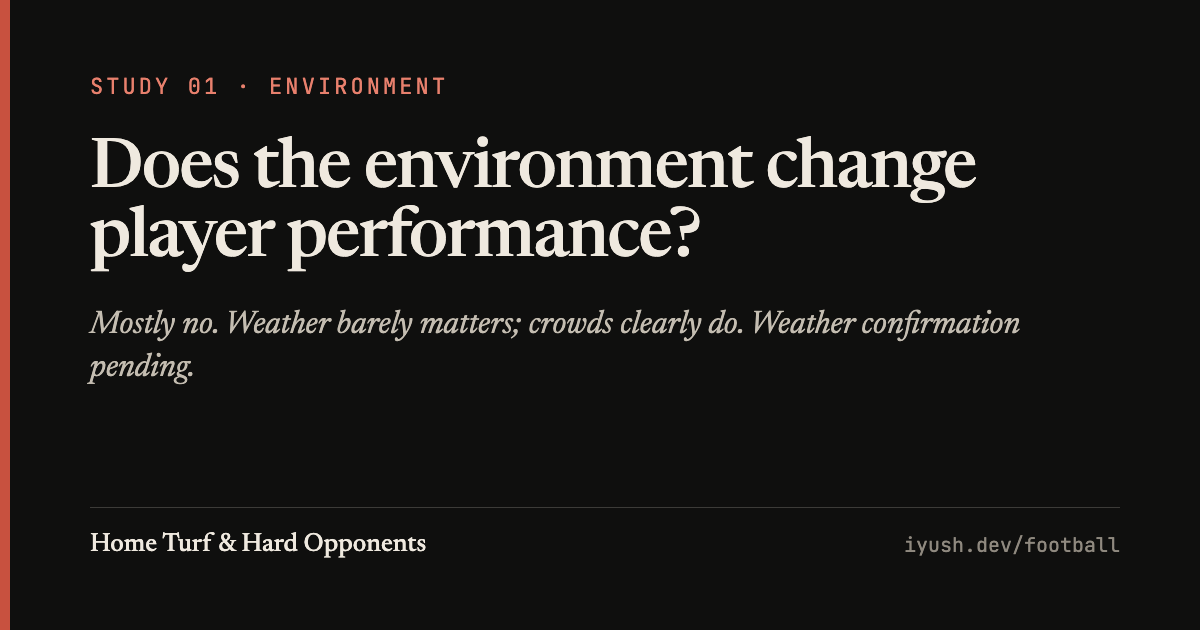
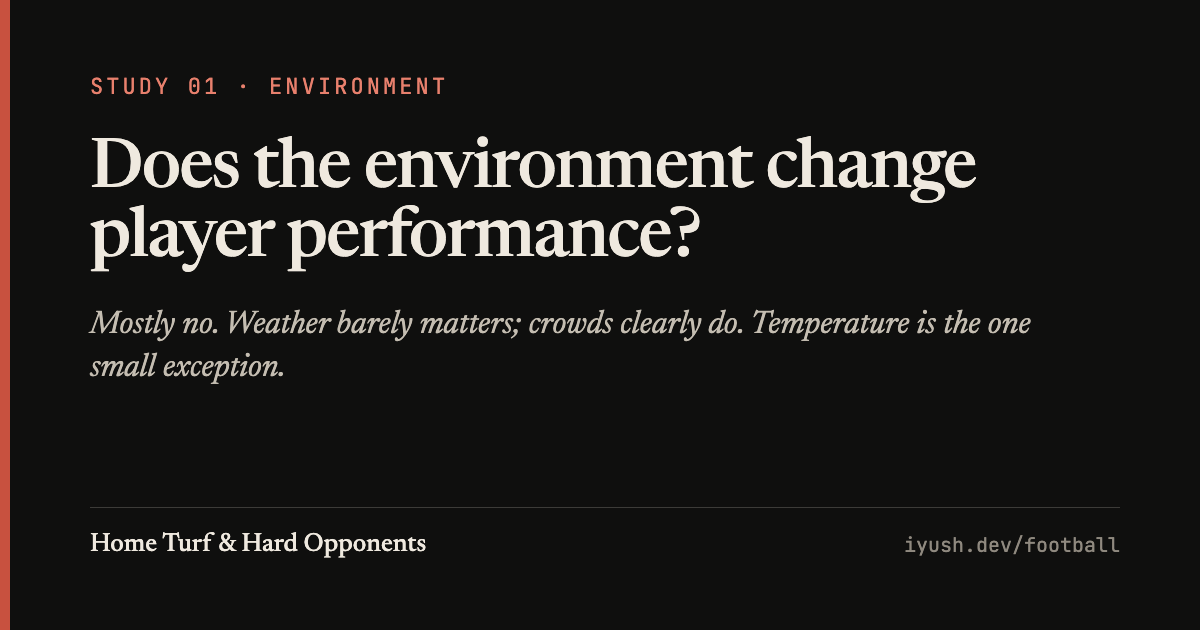
football: Study 1 temperature placebo (M12) done — survives; conclusion and freeze still pending
Study 1 page, research index, methodology, live board/questions/log and the
Environment OG card now reflect M12 (1,000-permutation placebo, 12 of 30 cells
survive; strongest in Serie A, none in EPL/Bundesliga).

Changed region(s): [[0.6167, 0.4825, 0.8633, 0.5429], [0.0617, 0.5429, 0.2467, 0.6032]]

diff --git a/football/research/environment.html b/football/research/environment.html
@@ -84,7 +84,7 @@
     </div>
     <div class="s-hero__side">
       <div class="callout" data-reveal><p class="label">Finding</p><p>Weather barely changes how much players produce: with all five leagues, rain and humidity effects sit within about ±2%, and wind is small (about −1% per +10 km/h). Crowds clearly do: empty stadiums roughly halved home advantage, and it came back with the fans.</p></div>
-      <aside class="status-box" aria-label="Study status"><p class="label">Status · Weather freeze pending</p><ul><li><span class="pill pill--final">Final</span><span>Crowds</span></li><li><span class="pill pill--final">Done</span><span>Weather · five-league models (6 Oct 2026)</span></li><li><span class="pill pill--pending">Pending</span><span>Final temperature check (1,000-permutation placebo)</span></li><li><span class="pill pill--pending">Pending</span><span>Hand-written weather conclusion and freeze</span></li><li><span class="pill pill--pending">Open lead — not a finding</span><span>Temperature</span></li></ul><p>The five-league weather models finished on 6 October 2026. A final temperature placebo check, the hand-written weather conclusion and the freeze are still to come, so the weather answer on this page is provisional. The crowd results are final.</p></aside>
+      <aside class="status-box" aria-label="Study status"><p class="label">Status · Weather freeze pending</p><ul><li><span class="pill pill--final">Final</span><span>Crowds</span></li><li><span class="pill pill--final">Done</span><span>Weather · five-league models (6 Oct 2026)</span></li><li><span class="pill pill--final">Done</span><span>Final temperature check (1,000-permutation placebo · 6 Oct 2026)</span></li><li><span class="pill pill--pending">Pending</span><span>Hand-written weather conclusion and freeze</span></li><li><span class="pill pill--pending">Survives the placebo check · conclusion pending</span><span>Temperature</span></li></ul><p>The five-league weather models and the final 1,000-permutation temperature placebo check finished on 6 October 2026. The hand-written weather conclusion and the freeze are still to come, so the weather answer on this page is provisional. The crowd results are final.</p></aside>
     </div>
   </div>
 </header>
@@ -121,7 +121,7 @@
   <p class="chart__summary">Every attacking ratio moved toward 1.00 without fans, and the home side's lighter treatment in yellow cards disappeared.</p>
   <p class="source">Study 01 · Final Summary §3</p>
 </figure></div></article>
-<div class="fgroup"><h3>Weather</h3><span class="pill pill--pending">Five-league models done · conclusion and freeze pending</span></div>
+<div class="fgroup"><h3>Weather</h3><span class="pill pill--pending">Models and placebo check done · conclusion and freeze pending</span></div>
 <article class="find find--head"><h3 class="find__big">Weather barely changes how much players produce.</h3><p class="lead lead--big">With all five leagues, rain and humidity effects on shots, xG, xA, goals and key passes sit within about <strong>±2%</strong>. Wind is small but now detectable: about <strong>−1%</strong> shots, key passes and xA per +10 km/h. Over ten Premier League seasons alone, <strong>0 of 20</strong> weather × metric effects survived correction.</p><figure class="chart fig" data-reveal>
   <figcaption><p class="chart__title">Weather, next to the crowd</p><p class="chart__sub">Change in output. The shaded band is the range the five-league rain and humidity estimates sit in.</p></figcaption>
   <div class="chart__plot" role="img" aria-label="Rain, humidity: ±2%; Wind +10 km/h (xA): −1.2%; Home edge, behind closed doors: +13%; Home edge, with fans: +30%"><div class="hchart" style="--vw:4.2em"><div class="hbar"><div class="hbar__row"><span class="hbar__lbl">Rain, humidity</span><span class="track"><span class="zero" style="left:12.50%"></span><span class="band" style="left:7.50%;width:calc(17.50% - 7.50%)"></span></span><span class="hbar__v">±2%</span></div><div class="hbar__row"><span class="hbar__lbl">Wind +10 km/h (xA)</span><span class="track"><span class="zero" style="left:12.50%"></span><span class="bar grow-x" style="left:9.50%;width:calc(12.50% - 9.50%);transform-origin:right"></span></span><span class="hbar__v">−1.2%</span></div><div class="hbar__row"><span class="hbar__lbl">Home edge, behind closed doors</span><span class="track"><span class="zero" style="left:12.50%"></span><span class="bar grow-x" style="left:12.50%;width:calc(45.00% - 12.50%);transform-origin:left"></span></span><span class="hbar__v">+13%</span></div><div class="hbar__row"><span class="hbar__lbl">Home edge, with fans</span><span class="track"><span class="zero" style="left:12.50%"></span><span class="bar grow-x bar--hot" style="left:12.50%;width:calc(87.50% - 12.50%);transform-origin:left"></span></span><span class="hbar__v hbar__v--hot">+30%</span></div></div><div class="hbar__axis" aria-hidden="true"><span></span><div class="ticks"><span style="left:0.00%">−5%</span><span style="left:12.50%">0%</span><span style="left:37.50%">+10%</span><span style="left:62.50%">+20%</span><span style="left:87.50%">+30%</span></div><span></span></div></div></div>
@@ -129,7 +129,7 @@
   <p class="source">Study 01 · five-league weather run (6 Oct 2026); crowd rows team level</p>
 </figure></article>
 <article class="find find--counter"><h3 class="find__h">Six predictions, written down before looking.</h3><p class="counter" data-reveal><b class="count" data-to="0">0</b><span class="counter__of">of 6</span><span class="counter__l">pre-registered weather hypotheses survive</span></p><p class="lead">Rain and long shots, wind and headers or crosses, heat and late-game output: on five leagues and 445,377 non-penalty shots, none of them held up.</p></article>
-<aside class="open-box"><p class="label">Open: temperature</p><p>With all five leagues, warmer kickoffs go with slightly more chance creation: key passes <strong>+3.2%</strong> and goals <strong>+4.2%</strong> per +10 °C, surviving correction — strongest in Serie A (xA +10.7%, key passes +5.8%) and absent in the Premier League. Part of it is “warm stadiums” rather than warm days: a stadium control shrinks it. The verdict waits on a 1,000-permutation placebo check. <strong>Not yet a finding.</strong></p></aside>
+<aside class="open-box"><p class="label">Temperature: survives the placebo check</p><p>With all five leagues, warmer kickoffs go with slightly more chance creation: per +10 °C, key passes <strong>+3.2%</strong>, xA <strong>+3.2%</strong> and goals <strong>+4.2%</strong> (xG +1.2%, not significant). It survives a 1,000-permutation placebo check and team and stadium controls (a stadium control trims it slightly). It is strongest in Serie A (xA +10.7%, goals +9.3%), present in Ligue 1 and La Liga, and absent in the Premier League and Bundesliga. <strong>A small, league-specific association — the final conclusion is pending review.</strong></p></aside>
 </div>
 </div>
 </section>
@@ -145,7 +145,7 @@
 <div class="wrap ss__grid">
 <div class="ss__rail"><h2 class="ss__k" id="meaning-h"><span>06</span>What it means</h2></div>
 <div class="ss__body">
-<ul class="means"><li>For rain, wind and humidity, the weather is not something a player's numbers need correcting for. Temperature is still open.</li><li>Crowds are different — and a crowd effect is a home effect. That is where Study 2 picks up.</li></ul>
+<ul class="means"><li>For rain, wind and humidity, the weather is not something a player's numbers need correcting for. Temperature is the exception: a small association that survives the placebo check, mostly in Serie A — its final conclusion is pending review.</li><li>Crowds are different — and a crowd effect is a home effect. That is where Study 2 picks up.</li></ul>
 </div>
 </div>
 </section>
@@ -153,7 +153,7 @@
 <div class="wrap ss__grid">
 <div class="ss__rail"><h2 class="ss__k" id="limits-h"><span>07</span>Limitations</h2></div>
 <div class="ss__body">
-<ul class="limits"><li>The final temperature placebo check, the hand-written weather conclusion and the freeze are still pending.</li><li>The closed-doors period is mostly one season, so per-player crowd estimates are noisy; there are no attendance figures — only fans or no fans.</li><li>Cup matches and fixture congestion are not in the data.</li><li>Observational data: effects are associations within carefully matched comparisons.</li></ul><p class="prov"><span class="label">Sources</span>Understat · football-data.co.uk · Open-Meteo ERA5 · Wikipedia/Wikidata · OpenStreetMap<br><span class="label">Analysis period</span>2015/16 — 2024/25 · frozen dataset · <a href="/football/methodology">Methodology</a></p>
+<ul class="limits"><li>The hand-written weather conclusion and the freeze are still pending; the temperature result is provisional until then.</li><li>The closed-doors period is mostly one season, so per-player crowd estimates are noisy; there are no attendance figures — only fans or no fans.</li><li>Cup matches and fixture congestion are not in the data.</li><li>Observational data: effects are associations within carefully matched comparisons.</li></ul><p class="prov"><span class="label">Sources</span>Understat · football-data.co.uk · Open-Meteo ERA5 · Wikipedia/Wikidata · OpenStreetMap<br><span class="label">Analysis period</span>2015/16 — 2024/25 · frozen dataset · <a href="/football/methodology">Methodology</a></p>
 </div>
 </div>
 </section>

diff --git a/football/live.html b/football/live.html
@@ -171,16 +171,16 @@
 
 <section class="lv-sec" aria-labelledby="st-h"><div class="wrap lv-grid">
   <div><p class="lv-kicker">Research status</p><h2 id="st-h" class="h2-sm">Where each study stands</h2>
-    <ul class="lv-board"><li><a href="/football/research/environment"><span class="lv-b__n">01</span><span class="lv-b__t">Environment</span></a><ul><li class="st-pending"><span aria-hidden="true">◐</span> Not yet frozen<small> · its own freeze checklist is still open</small></li><li class="st-final"><span aria-hidden="true">●</span> Crowd results final</li><li class="st-final"><span aria-hidden="true">●</span> Five-league weather models</li><li class="st-pending"><span aria-hidden="true">◐</span> 1,000-permutation temperature placebo, pooled and per league</li><li class="st-pending"><span aria-hidden="true">◐</span> Final weather conclusion</li><li class="st-pending"><span aria-hidden="true">◐</span> Freeze: git tag, checksum manifest, pinned packages</li></ul><small>Findings updated 6 Oct 2026</small></li><li><a href="/football/research/home-advantage"><span class="lv-b__n">02</span><span class="lv-b__t">Home advantage</span></a><ul><li class="st-final"><span aria-hidden="true">●</span> Frozen<small> · complete on the frozen 2015/16 — 2024/25 data</small></li></ul><small>Findings updated 5 Oct 2026</small></li><li><a href="/football/research/opposition"><span class="lv-b__n">03</span><span class="lv-b__t">Opposition</span></a><ul><li class="st-final"><span aria-hidden="true">●</span> Frozen<small> · complete on the frozen 2015/16 — 2024/25 data</small></li></ul><small>Findings updated 5 Oct 2026</small></li><li><a href="/football/research/similarity"><span class="lv-b__n">04</span><span class="lv-b__t">Similarity</span></a><ul><li class="st-final"><span aria-hidden="true">●</span> Frozen<small> · complete on the frozen 2015/16 — 2024/25 data</small></li><li class="st-pending"><span aria-hidden="true">◐</span> Known-pairs check pending</li></ul><small>Findings updated 5 Oct 2026</small></li><li><a href="/football/research/transferability"><span class="lv-b__n">05</span><span class="lv-b__t">Transferability</span></a><ul><li class="st-final"><span aria-hidden="true">●</span> Frozen<small> · complete on the frozen 2015/16 — 2024/25 data</small></li><li class="st-pending"><span aria-hidden="true">◐</span> League-effect improvement planned</li></ul><small>Findings updated 6 Oct 2026</small></li></ul>
+    <ul class="lv-board"><li><a href="/football/research/environment"><span class="lv-b__n">01</span><span class="lv-b__t">Environment</span></a><ul><li class="st-pending"><span aria-hidden="true">◐</span> Not yet frozen<small> · its own freeze checklist is still open</small></li><li class="st-final"><span aria-hidden="true">●</span> Crowd results final</li><li class="st-final"><span aria-hidden="true">●</span> Five-league weather models</li><li class="st-final"><span aria-hidden="true">●</span> 1,000-permutation temperature placebo, pooled and per league</li><li class="st-pending"><span aria-hidden="true">◐</span> Final weather conclusion</li><li class="st-pending"><span aria-hidden="true">◐</span> Freeze: git tag, checksum manifest, pinned packages</li></ul><small>Findings updated 6 Oct 2026</small></li><li><a href="/football/research/home-advantage"><span class="lv-b__n">02</span><span class="lv-b__t">Home advantage</span></a><ul><li class="st-final"><span aria-hidden="true">●</span> Frozen<small> · complete on the frozen 2015/16 — 2024/25 data</small></li></ul><small>Findings updated 5 Oct 2026</small></li><li><a href="/football/research/opposition"><span class="lv-b__n">03</span><span class="lv-b__t">Opposition</span></a><ul><li class="st-final"><span aria-hidden="true">●</span> Frozen<small> · complete on the frozen 2015/16 — 2024/25 data</small></li></ul><small>Findings updated 5 Oct 2026</small></li><li><a href="/football/research/similarity"><span class="lv-b__n">04</span><span class="lv-b__t">Similarity</span></a><ul><li class="st-final"><span aria-hidden="true">●</span> Frozen<small> · complete on the frozen 2015/16 — 2024/25 data</small></li><li class="st-pending"><span aria-hidden="true">◐</span> Known-pairs check pending</li></ul><small>Findings updated 5 Oct 2026</small></li><li><a href="/football/research/transferability"><span class="lv-b__n">05</span><span class="lv-b__t">Transferability</span></a><ul><li class="st-final"><span aria-hidden="true">●</span> Frozen<small> · complete on the frozen 2015/16 — 2024/25 data</small></li><li class="st-pending"><span aria-hidden="true">◐</span> League-effect improvement planned</li></ul><small>Findings updated 6 Oct 2026</small></li></ul>
     <p class="source">From each study's findings file · open items stay visible until the research closes them</p></div>
   <div><p class="lv-kicker">Open questions</p><h2 id="q-h" class="h2-sm">What are we investigating next?</h2>
-    <ul class="lv-qs" aria-labelledby="q-h"><li><p class="label">Temperature</p><p>Does the small temperature effect survive Study 1&#x27;s final placebo check and freeze?</p></li><li><p class="label">Similarity validation</p><p>Do known similar-player pairs behave as expected?</p></li><li><p class="label">Transfer model</p><p>Can a percentage-based league effect improve predictions for low-output central midfielders moving into the Premier League?</p></li></ul>
+    <ul class="lv-qs" aria-labelledby="q-h"><li><p class="label">Temperature</p><p>The small temperature effect survived the placebo check, mostly in Serie A. What does the reviewed final conclusion make of it?</p></li><li><p class="label">Similarity validation</p><p>Do known similar-player pairs behave as expected?</p></li><li><p class="label">Transfer model</p><p>Can a percentage-based league effect improve predictions for low-output central midfielders moving into the Premier League?</p></li></ul>
     <p class="source">From the research's open items · nothing here is a result yet</p></div>
 </div></section>
 
 <section class="lv-sec" aria-labelledby="log-h"><div class="wrap lv-grid">
   <div><p class="lv-kicker">Update log</p><h2 id="log-h" class="h2-sm">This is maintained</h2>
-    <ol class="lv-log"><li><time datetime="2026-10-06T00:00:00+05:30">6 Oct 2026</time><span>Study 1: five-league weather models finished</span></li><li><time datetime="2026-10-05T15:40:37+00:00">5 Oct 2026</time><span>2026/27 live data updated · matches through 20 Sep 2026</span></li><li><time datetime="2026-10-05T20:31:00+05:30">5 Oct 2026</time><span>Weekly pipeline run completed</span></li><li><time datetime="2026-10-05T00:00:00+05:30">5 Oct 2026</time><span>Correction published: Understat&#x27;s match “forecast” is post-match (never used in any model)</span></li><li><time datetime="2026-05-24T23:59:00+00:00">25 May 2026</time><span>2025/26 season complete · last match processed</span></li></ol>
+    <ol class="lv-log"><li><time datetime="2026-10-06T00:00:00+05:30">6 Oct 2026</time><span>Study 1: five-league weather models finished</span></li><li><time datetime="2026-10-06T00:00:00+05:30">6 Oct 2026</time><span>Study 1: 1,000-permutation temperature placebo, pooled and per league finished</span></li><li><time datetime="2026-10-05T15:40:37+00:00">5 Oct 2026</time><span>2026/27 live data updated · matches through 20 Sep 2026</span></li><li><time datetime="2026-10-05T20:31:00+05:30">5 Oct 2026</time><span>Weekly pipeline run completed</span></li><li><time datetime="2026-10-05T00:00:00+05:30">5 Oct 2026</time><span>Correction published: Understat&#x27;s match “forecast” is post-match (never used in any model)</span></li><li><time datetime="2026-05-24T23:59:00+00:00">25 May 2026</time><span>2025/26 season complete · last match processed</span></li></ol>
     <p class="source">Events recorded by the pipeline (weekly run logs, snapshot timestamp) and dated entries in the findings files</p></div>
   <div><p class="lv-kicker">Data provenance</p>
     <dl class="lv-dl lv-prov"><div><dt>Live data</dt><dd>Updated weekly (Monday pipeline → validation → snapshot → this page)</dd></div><div><dt>Frozen baseline</dt><dd>2015/16 — 2024/25</dd></div>

diff --git a/football/research/index.html b/football/research/index.html
@@ -180,7 +180,7 @@
     </div>
     <div class="d-5 d-end">
       <p class="eyebrow"><span class="pill pill--pending">Open</span></p><h2 class="h2-sm">Still open</h2>
-      <ul class="limits" style="margin-top:16px"><li>Study 1's final temperature placebo check, hand-written weather conclusion and freeze.</li><li>Study 4's user-curated “known similar pairs” check.</li><li>Study 5's percentage-based league effect, to be validated on moves after 2025/26.</li></ul>
+      <ul class="limits" style="margin-top:16px"><li>Study 1's hand-written weather conclusion and freeze.</li><li>Study 4's user-curated “known similar pairs” check.</li><li>Study 5's percentage-based league effect, to be validated on moves after 2025/26.</li></ul>
       <p class="prov"><span class="label">Sources</span>Understat · football-data.co.uk · Open-Meteo ERA5 · Wikipedia/Wikidata · OpenStreetMap<br><span class="label">Analysis period</span>2015/16 — 2024/25 · frozen dataset · <a href="/football/methodology">Methodology</a></p>
     </div>
   </div>

diff --git a/football/methodology.html b/football/methodology.html
@@ -169,7 +169,7 @@
         </ul>
         <p><strong>Still open</strong></p>
         <ul>
-          <li>Study 1's final temperature placebo check, hand-written weather conclusion and freeze.</li>
+          <li>Study 1's hand-written weather conclusion and freeze.</li>
           <li>Study 4's user-curated “known similar pairs” check.</li>
           <li>Study 5's percentage-based league effect, to be validated on moves after 2025/26.</li>
         </ul>

diff --git a/scripts/build_live.py b/scripts/build_live.py
@@ -279,9 +279,11 @@ def research_part(live):
          "items": [["final", "Frozen", frozen_note], ["pending", "League-effect improvement planned", ""]]},
     ]
     questions = []
-    temp = re.search(r"Temperature is the one open lead", flat(s1))
-    if temp and not s1_frozen:   # Study 1's open lead, shown only while its own checklist says it is unresolved
-        questions.append({"title": "Temperature", "q": "Does the small temperature effect survive Study 1's final placebo check and freeze?", "source": temp.group(0)})
+    concl = next((t for d, t, _ in s1_items if not d and t.lower().startswith("final weather conclusion")), None)
+    temp = re.search(r"Temperature is the one (weather effect that holds up|open lead)", flat(s1))
+    if temp and concl and not s1_frozen:   # shown only while Study 1's own checklist leaves the conclusion open
+        questions.append({"title": "Temperature", "q": "The small temperature effect survived the placebo check, mostly in Serie A. What does the reviewed final conclusion make of it?",
+                          "source": temp.group(0)})
     questions += [
         {"title": "Similarity validation", "q": "Do known similar-player pairs behave as expected?", "source": s4_pairs},
         {"title": "Transfer model", "q": "Can a percentage-based league effect improve predictions for low-output central midfielders moving into the Premier League?", "source": s5_next},
